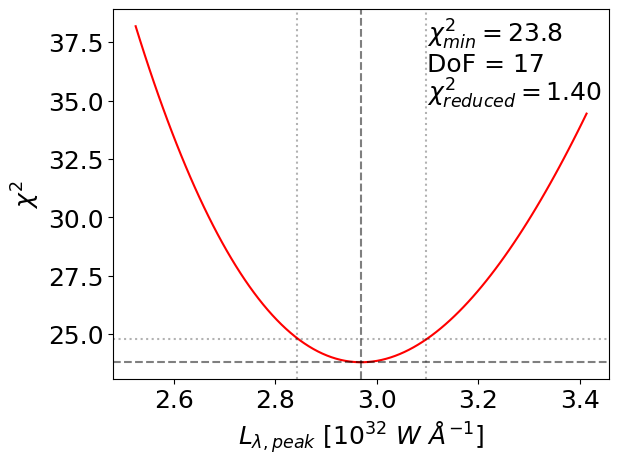
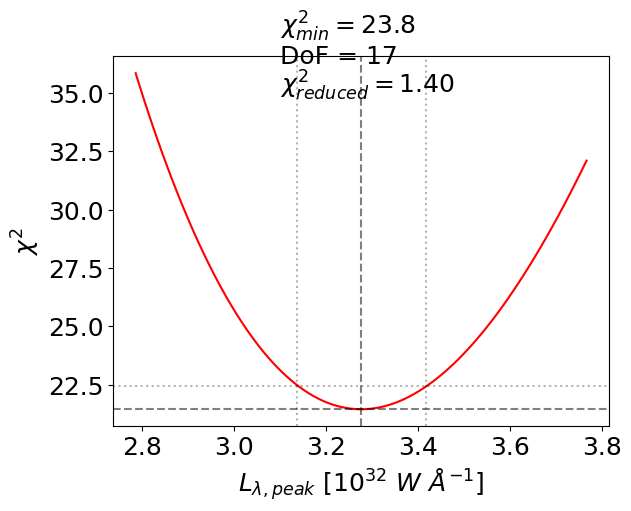
fixed_find_LPeak

diff --git a/triple_param_fit.py b/triple_param_fit.py
@@ -1,0 +1,124 @@
+import numpy as np
+import matplotlib.pyplot as plt
+import scipy.optimize 
+import scipy.integrate as integrate
+import scipy.stats as stats
+
+# constants
+f_lambda_0 = 6.61 * (10 ** (-12)) #W m^-2 A^-1 
+c = 3.00 * (10**8) #m s^-1
+H_0 = (75*1000)/(3.09*10**22) #s^-1
+
+
+# extract data from text file
+file = 'sn_data(1).txt'
+redshift, m_effective, m_error = np.loadtxt(file, usecols=(1,2,3), unpack=True)
+
+# taking only low redshift data
+near_redshift = redshift[42:60]
+near_m_effective = m_effective[42:60]
+near_m_error = m_error[42:60]
+far_redshift = redshift[0:42]
+far_m_effective = m_effective[0:42]
+far_m_error = m_error[0:42]
+
+
+#######################################################################################################################################
+# Find values
+
+def find_theoretical_m_eff(redshift, *params): # params[0] Omega_Lambda, params[1] L*H_0**2, params[2] Omega_M
+    def integrand(x):
+        return 1 / (np.sqrt((params[2])*(1+x)**3 + params[0]))# + (1 - params[0] - (params[2]))*(1+x)**2))
+    I = []
+    for i in range(0, len(redshift)):
+        I.append(integrate.quad(integrand, 0, redshift[i]))
+    I = np.array(I)
+    I_value = I[:, 0]
+    fracs = np.empty(len(redshift))
+    for i in range(0, len(redshift)):
+        fracs[i] = params[1] / ((c**2) * (f_lambda_0) * 4 * np.pi * ((1 + float(redshift[i])) ** 2) * float(I_value[i])**2)
+    m_eff = -2.5 * np.log10(np.array(fracs))
+    return m_eff
+
+initials = np.array([0.70, 0.0017, 0.3])
+popt, cov = scipy.optimize.curve_fit(find_theoretical_m_eff, redshift, m_effective, sigma=m_error, absolute_sigma=True, p0=initials, check_finite=True)
+
+
+popt_err = np.sqrt(np.diag(cov)) # double check this
+
+print('Omega_Lambda_0 = ({} \u00B1 {})'.format(popt[0], popt_err[0]))
+print('Omega_M_0 = ({} \u00B1 {})'.format(popt[2], popt_err[2]))
+print('L_Lambda_peak * H_0^2 = ({} \u00B1 {})'.format(popt[1], popt_err[1]))
+L_lambda_peak, L_lambda_peak_err = popt[1] / H_0**2, popt_err[1] / H_0**2
+print('L_lambda_peak = ({} \u00B1 {})'.format(L_lambda_peak, L_lambda_peak_err))
+
+
+#######################################################################################################################################
+
+
+residuals = m_effective - find_theoretical_m_eff(redshift, *popt)
+norm_residuals = residuals / m_error
+
+gauss_xs = np.linspace(-5.5, 5.5, 1000)
+norm_res_mean = np.mean(norm_residuals)
+norm_res_std = np.std(norm_residuals)
+
+
+# chi-squared time!!!!!
+def chi_squared(model_params, model, x_data, y_data, y_err):
+    return np.sum(((y_data - model(x_data, *model_params))/y_err)**2) # Note the `*model_params' here!
+
+
+# check all this!!!
+chi_squared_min = chi_squared(popt, find_theoretical_m_eff, redshift, m_effective, m_error)
+print('Min chi^2 = {}'.format(chi_squared_min))
+degrees_of_freedom_value = redshift.size - popt.size
+print('Reduced chi^2 = {}'.format(chi_squared_min/degrees_of_freedom_value))
+
+
+#######################################################################################################################################
+# Plots
+
+smooth_x = np.linspace(min(redshift), max(redshift), 1000)
+ys = find_theoretical_m_eff(smooth_x, *popt)
+
+plt.rcParams["font.size"] = 16
+
+
+# Main plot
+fig6 = plt.figure(6).add_axes((0.1,0.32,0.74,0.68))
+plt.errorbar(redshift, m_effective, yerr=m_error, marker='o', color = 'k', elinewidth=1, ecolor='gray', linestyle='none', ms = 2)
+#plt.errorbar(near_redshift, near_m_effective, yerr = near_m_error, marker='s', color = 'orange', elinewidth=0.8, linestyle='none', ms = 2)
+plt.plot(smooth_x, ys, color = 'r', linewidth = 0.8)
+plt.ylabel('$M_{eff}$')
+plt.tick_params(axis='x', bottom=False, top=False, labelbottom=False)
+plt.xlim([0, 0.86])
+
+
+
+# Residuals
+plt.figure(6).add_axes((0.1, 0.1, 0.74, 0.2))
+plt.scatter(redshift, norm_residuals, color = 'r', marker='o', s=4)
+plt.axhline(y=0, color='k', linestyle = 'dashed', alpha=0.5)
+plt.axhline(y=1, color='k', linestyle=':', alpha=0.3)
+plt.axhline(y=-1, color='k', linestyle=':', alpha=0.3)
+plt.xlabel('$Redshift (z)$')
+plt.ylim([-5.5,5.5])
+plt.xlim([0, 0.86])
+
+# Residuals histrogram
+plt.figure(6).add_axes((0.85, 0.1, 0.14, 0.2))
+plt.hist(norm_residuals, bins = 10, orientation='horizontal', density=True, color='r')
+plt.axhline(y=0, color='k', linestyle = 'dashed', alpha=0.5)
+plt.axhline(y=1, color='k', linestyle=':', alpha=0.3)
+plt.axhline(y=-1, color='k', linestyle=':', alpha=0.3)
+plt.plot(stats.norm.pdf(gauss_xs, norm_res_mean, norm_res_std), gauss_xs, color='k')
+plt.tick_params(axis='y', left=False, right=False, labelleft=False)
+plt.xticks([0.2, 0.4])
+
+plt.savefig('triple_fit', bbox_inches = 'tight')
+
+plt.show()
+
+
+print("All wrong, didn't correct for different S_k(r) value!!!")

diff --git a/milestone2.py b/milestone2.py
@@ -28,12 +28,12 @@ far_m_error = m_error[0:42]
 
 # find d_L for nearby supernovae
 def get_near_d_L(z):
-    return c * z / (H_0*1000 * (1+z)) # output in Mpc
+    return c * z / (H_0*1000) * (1+z) # output in Mpc
 
 # find L_lambda_peak * H_0^2 from redshift for nearby supernovae
 def find_milestone_value(redshift, value):
     redshift = np.array(redshift)
-    frac = value / (f_lambda_0 * 4 * np.pi * c**2 * redshift**2)
+    frac = value / (f_lambda_0 * 4 * np.pi * c**2 * redshift**2 * (1+redshift)**2)
     m_eff = -2.5 * np.log10(frac)
     return m_eff
 
